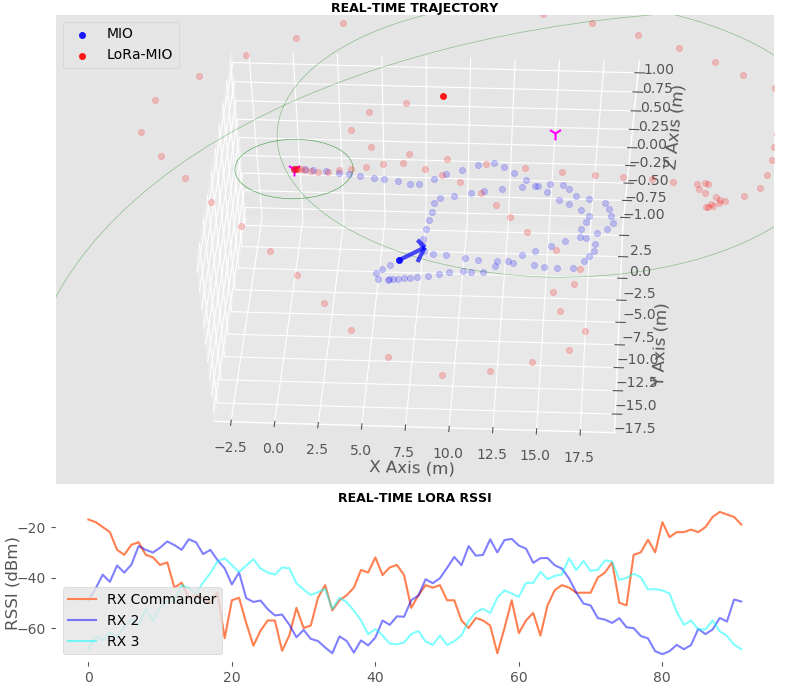
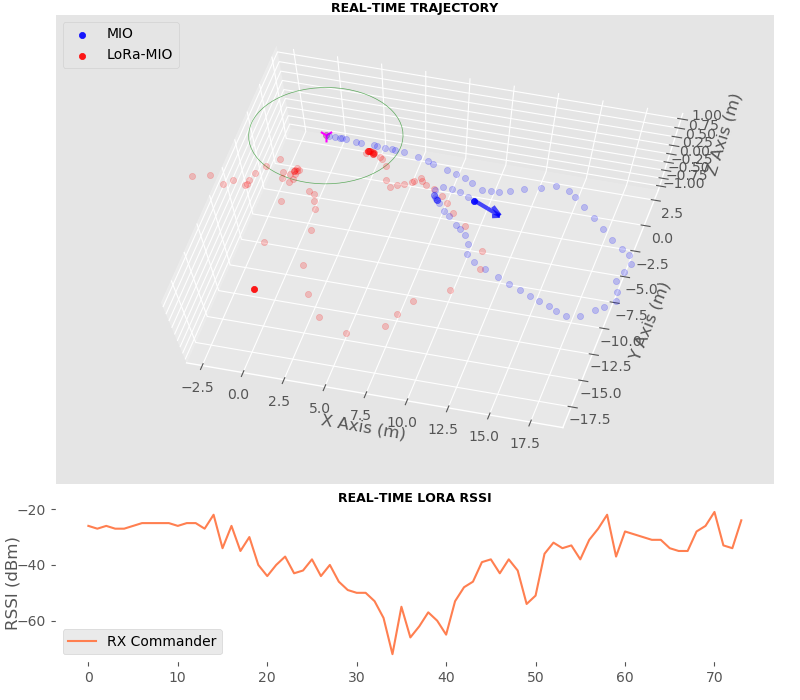
Fixed hx() BUG: '+' operator before BETA

diff --git a/EKF.py b/EKF.py
@@ -37,15 +37,15 @@ def HJacobian_at(x, anchor=1):
     #Z = x[2, 0]
     theta = x[2, 0]
     V = x[3, 0]
-    denom = (X - R1[anchor-1, 0])**2 + (Y - R1[anchor-1, 1])**2
-    if denom < 0.25:
-        denom = 0.25
     a = ALPHA*math.log10(math.e)
     # HJabobian in (3, 4) if ONE LoRa RX; (5, 4) if THREE LoRa RXs available
     Jacob = array([[0, 0, -dt * V * math.sin(theta), dt * math.cos(theta)],
                                      [0, 0, dt * V * math.cos(theta), dt * math.sin(theta)]])
     
     for row in range(0, anchor):
+        denom = (X - R1[row, 0]) ** 2 + (Y - R1[row, 1]) ** 2
+        if denom < 1.:
+            denom = 1.
         Jacob = np.vstack((Jacob, array([[a*(X - R1[row, 0])/denom, a*(Y - R1[row, 1])/denom, 0, 0]])))
     
     #print("HJacobian return: ", Jacob)
@@ -61,13 +61,13 @@ def hx(x, anchor=1):
     h = array([trans_x, trans_y]).reshape((-1, 1))
     for row in range(0, anchor):
         dis = np.linalg.norm(x[:2, 0] - R1[row, :2])
-        thres_dis = 0.5
+        thres_dis = 1.
         if dis > thres_dis:
             # RSSI Regression Model
-            rssi = ALPHA*math.log10(dis) - BETA
+            rssi = ALPHA*math.log10(dis) + BETA
             
         else:
-            rssi = ALPHA*math.log10(thres_dis) - BETA
+            rssi = ALPHA*math.log10(thres_dis) + BETA
         
         # Measurement comprises (X, Y, RSSIs)
         h = np.vstack((h, array([[rssi]])))
@@ -83,15 +83,15 @@ def HJacobian_at_ZYaw(x, anchor=1):
     # Z = x[2, 0]
     theta = x[2, 0]
     V = x[3, 0]
-    denom = (X - R1[anchor - 1, 0]) ** 2 + (Y - R1[anchor - 1, 1]) ** 2
-    if denom < 0.25:
-        denom = 0.25
     a = ALPHA * math.log10(math.e)
     # HJabobian in (4, 4) if ONE LoRa RX; (6, 4) if THREE LoRa RXs available
     Jacob = array([[0, 0, -dt * V * math.sin(theta), dt * math.cos(theta)],
                    [0, 0, dt * V * math.cos(theta), dt * math.sin(theta)],
                    [0, 0, 1, 0]])
     for row in range(0, anchor):
+        denom = (X - R1[row, 0]) ** 2 + (Y - R1[row, 1]) ** 2
+        if denom < 1.:
+            denom = 1.
         Jacob = np.vstack((Jacob, array([[a * (X - R1[row, 0]) / denom, a * (Y - R1[row, 1]) / denom, 0, 0]])))
     # print("HJacobian return: ", Jacob)
     return Jacob
@@ -107,12 +107,12 @@ def hx_ZYaw(x, anchor=1):
     h = array([trans_x, trans_y, abs_yaw]).reshape((-1, 1))
     for row in range(0, anchor):
         dis = np.linalg.norm(x[:2, 0] - R1[row, :2])
-        thres_dis = 0.5
+        thres_dis = 1.
         if dis > thres_dis:
             # RSSI Regression Model
-            rssi = ALPHA * math.log10(dis) - BETA
+            rssi = ALPHA * math.log10(dis) + BETA
         else:
-            rssi = ALPHA * math.log10(thres_dis) - BETA
+            rssi = ALPHA * math.log10(thres_dis) + BETA
 
         # Measurement comprises (X, Y, abs_Yaw, RSSIs...)
         h = np.vstack((h, array([[rssi]])))
@@ -137,8 +137,8 @@ def HJacobian_at_AngularV(x, anchor=1):
                    [0, 0, 0, 0, dt]])
     for row in range(0, anchor):
         denom = (X - R1[row, 0]) ** 2 + (Y - R1[row, 1]) ** 2
-        if denom < 0.25:
-            denom = 0.25
+        if denom < 1.:
+            denom = 1.
         Jacob = np.vstack((Jacob, array([[a * (X - R1[row, 0]) / denom, a * (Y - R1[row, 1]) / denom, 0, 0, 0]])))
         #Jacob = np.vstack((Jacob, array([[0, 0, 0, 0, 0]])))
     # print("HJacobian return: ", Jacob)
@@ -155,12 +155,12 @@ def hx_AngularV(x, anchor=1):
     h = array([trans_x, trans_y, rot_z]).reshape((-1, 1))
     for row in range(0, anchor):
         dis = np.linalg.norm(x[:2, 0] - R1[row, :2])
-        thres_dis = 0.5
+        thres_dis = 1.
         if dis > thres_dis:
             # RSSI Regression Model
-            rssi = ALPHA * math.log10(dis) - BETA
+            rssi = ALPHA * math.log10(dis) + BETA
         else:
-            rssi = ALPHA * math.log10(thres_dis) - BETA
+            rssi = ALPHA * math.log10(thres_dis) + BETA
 
         # Measurement comprises (X, Y, abs_Yaw, RSSIs...)
         h = np.vstack((h, array([[rssi]])))
@@ -354,15 +354,15 @@ class EKF_Fusion():
         
         self.path.append([abs_pred_transform[0, 3], abs_pred_transform[1, 3], 0])
         
-        print("Elapsed time Pose2TrfMtx = ", time.time() - start_t)
+        print("Elapsed time PoseTransform = ", time.time() - start_t)
         start_t = time.time()
         
         # Trigger EKF
         self.rt_run(gap)
         print("Elapsed time of EKF = ", time.time() - start_t)
-        print("ABS_YAW: ", self.abs_yaw)
+        print("ABS_YAW: %.3f (=%.3f OR %.3f)" % (self.abs_yaw, self.abs_yaw-2*math.pi, self.abs_yaw+2*math.pi))
         print("State X:\n", self.my_kf.x)
-
+        print("")
         if self.visual:
             self.rt_show()
 

diff --git a/replay.py b/replay.py
@@ -113,11 +113,11 @@ class EKF_Fusion_MultiRX_AngularV(EKF_Fusion):
         self.my_kf.F = eye(5)
 
         # TWEEK PARAMS
-        self.my_kf.x = np.array([0., 0., 0., 0.1, 0.0]).reshape(-1, 1)
+        self.my_kf.x = np.array([1.0, -0.5, 0., 0.1, 0.0]).reshape(-1, 1)
         # Error Cov of Initial State
-        self.my_kf.P = np.diag(np.array([0.0, 0.0, 0.0, 1.0, 0.01]))
+        self.my_kf.P = np.diag(np.array([4.0, 4.0, 0.1, 1.0, 0.01]))
         # Process Noise Cov
-        self.my_kf.Q = np.diag(np.array([0.0, 0.0, 0.0, 0.01, .0001]))
+        self.my_kf.Q = np.diag(np.array([0.0, 0.0, 0.0, 0.001, .0001]))
 
         # Initial R doesn't matter; it is updated @run_rt
         measure_noise = np.array([1. ** 2, 1. ** 2, .1 ** 2, SIGMA ** 2])
@@ -155,12 +155,12 @@ class EKF_Fusion_MultiRX_AngularV(EKF_Fusion):
             # TODO Add data integraty check: X+ value explodes
 
             # Refresh Measurement noise R
-            # Tip1: (x, y) should be noisy; Tip2: large noise for RSSI; Tip3: small noise for rot_z
-            self.my_kf.R[0, 0] = 4.0  # self.sigma_list[-g][0]*1000
-            self.my_kf.R[1, 1] = 4.0  # self.sigma_list[-g][1]*1000
-            self.my_kf.R[2, 2] = 0.0005 # self.sigma_list[-g][-1]**2 # Sigma of ROT_Z
+            # Tip1: (x, y) shouldn't be large; Tip2: large noise for RSSI; Tip3: small noise for rot_z
+            self.my_kf.R[0, 0] = 0.19  # self.sigma_list[-g][0]*1000
+            self.my_kf.R[1, 1] = 0.19  # self.sigma_list[-g][1]*1000
+            self.my_kf.R[2, 2] = 0.0001 # self.sigma_list[-g][-1]**2 # Sigma of ROT_Z
             for rowcol in range(3, 3+self.anchor):
-                self.my_kf.R[rowcol, rowcol] = 10*SIGMA**2
+                self.my_kf.R[rowcol, rowcol] = 5*SIGMA**2
 
             # Refresh State Transition Martrix: F
             self.my_kf.F = eye(5) + array([[0, 0, -self.dt * self.my_kf.x[3, 0] * math.sin(self.my_kf.x[2, 0]),
@@ -236,7 +236,7 @@ def synthetic_rssi(data_len, period=1., Amp=20., phase=0., mean=-43., noiseAmp=0
 
 if __name__=="__main__":
     
-    ekf = EKF_Fusion_MultiRX_AngularV(anchor=3)
+    ekf = EKF_Fusion_MultiRX_AngularV(anchor=1)
     # TODO Sync Multiple RX RSSIs and Replay
 
 
@@ -247,7 +247,7 @@ if __name__=="__main__":
 
             # Add synthetic RSSIs
             data_len = len(recv_list)
-            if 1:
+            if 0:
                 rssi_y2 = synthetic_rssi(data_len=data_len, period=1.)
                 rssi_y3 = synthetic_rssi(data_len=data_len, period=1., Amp=15, phase=-math.pi/2, noiseAmp=0.3, mean=-45)
             else:
